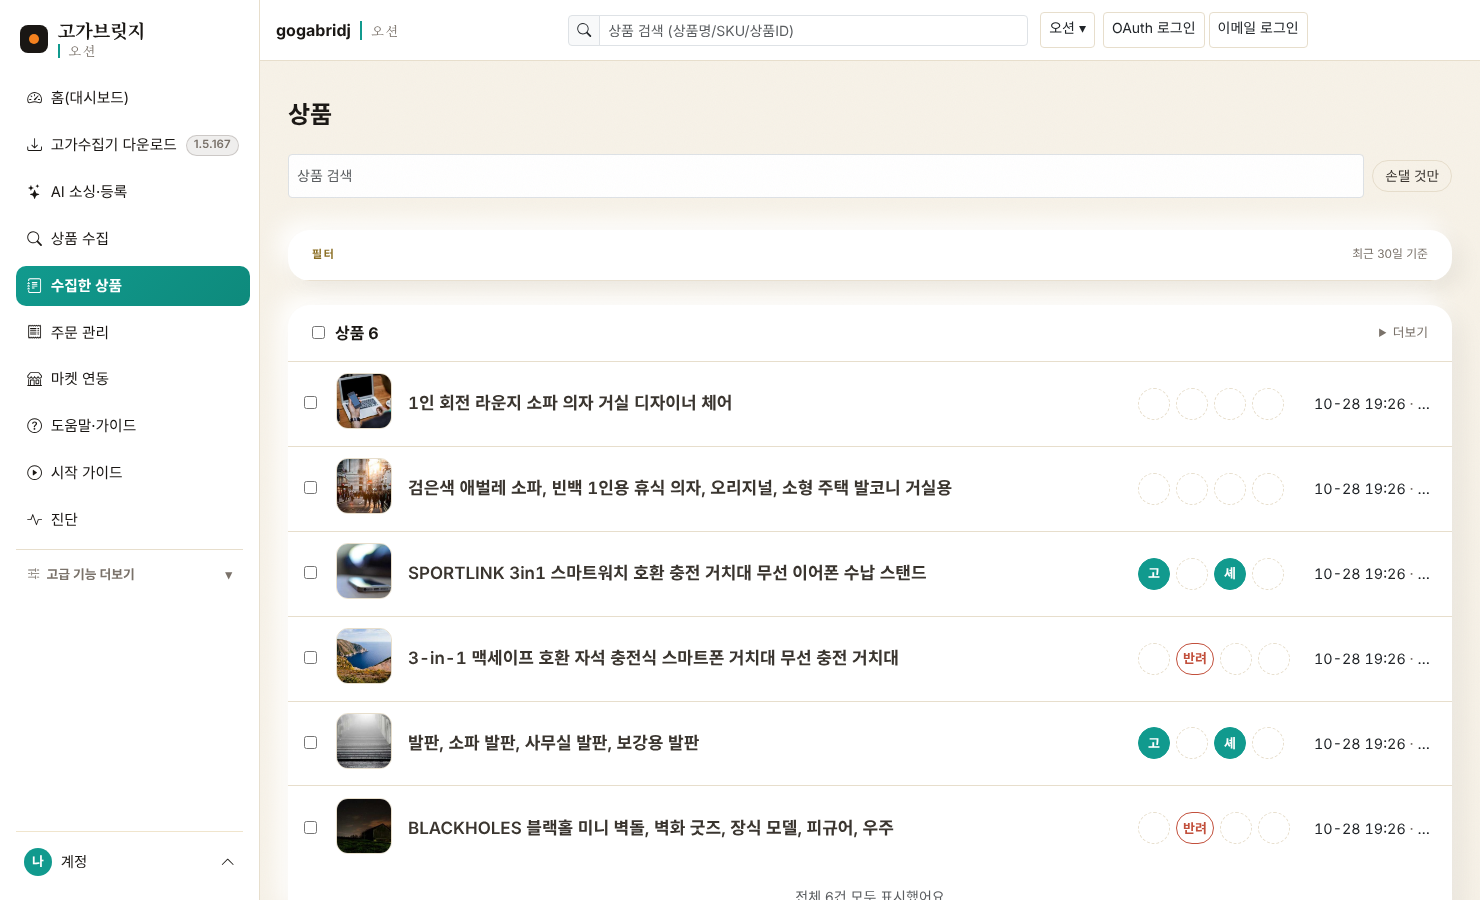
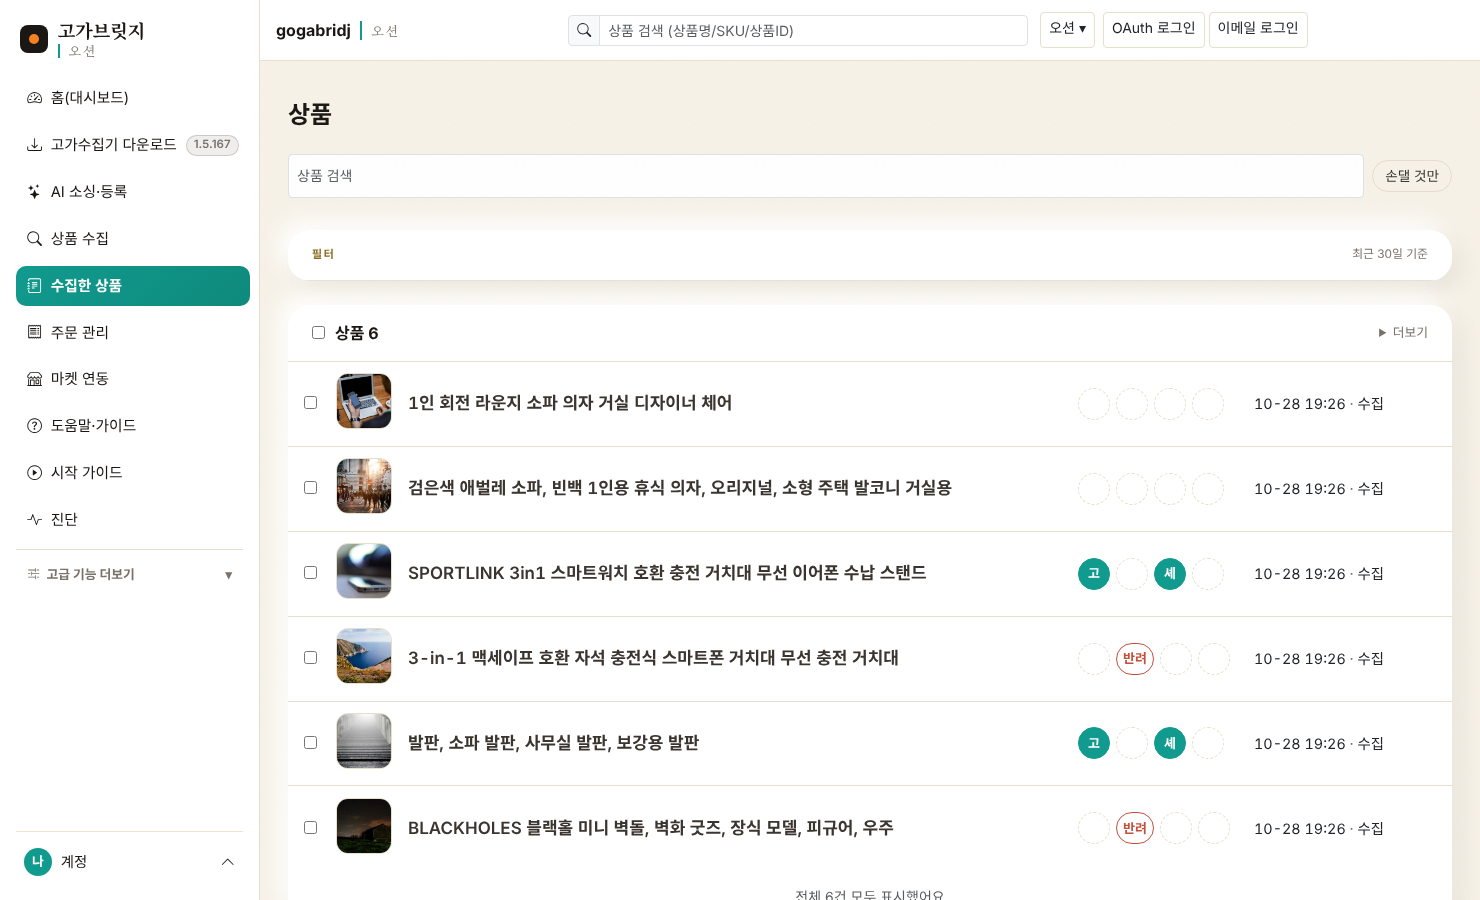
V41-3: 마지막 동작 칸 210px — 「10-28 19:26 · 수집」이 잘리지 않게
Claude-Session: https://claude.ai/code/session_01QKNhJj35nTA2aawu4ezinf

diff --git a/src/static/app.css b/src/static/app.css
@@ -2682,7 +2682,7 @@ a.hb-tile:hover { border-color: var(--teal); }
   .ch-c-img .ch-thumb.ch-thumb-lg { width: 56px; height: 56px; border-radius: var(--radius); }
   .ch-title-1 { font-size: var(--body-lg); font-weight: 600; }
   .ch-c-badges { width: 176px; }                                   /* 원 4개 = 한 줄, 글자 뱃지 8개 자리 반납 */
-  .ch-c-when { width: 150px; font-size: var(--small); }
+  .ch-c-when { width: 210px; font-size: var(--small); }
   .ch-c-when .ch-when-short { display: none; }                     /* short = 모바일용 짧은 시각 — 데스크톱은 시각 + 동작 한 마디 */
   .ch-c-when .ch-when-text { display: inline; }
   .mk-badges { gap: 6px; }
